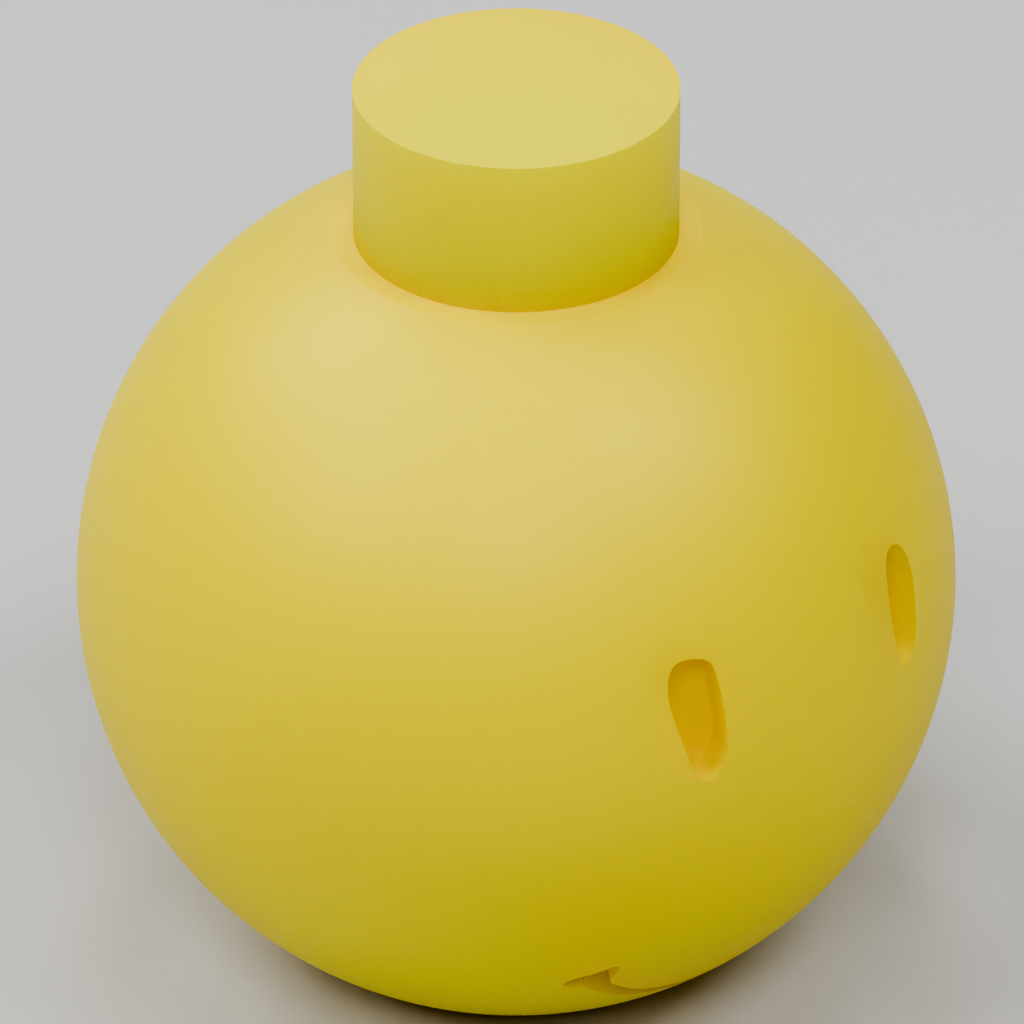
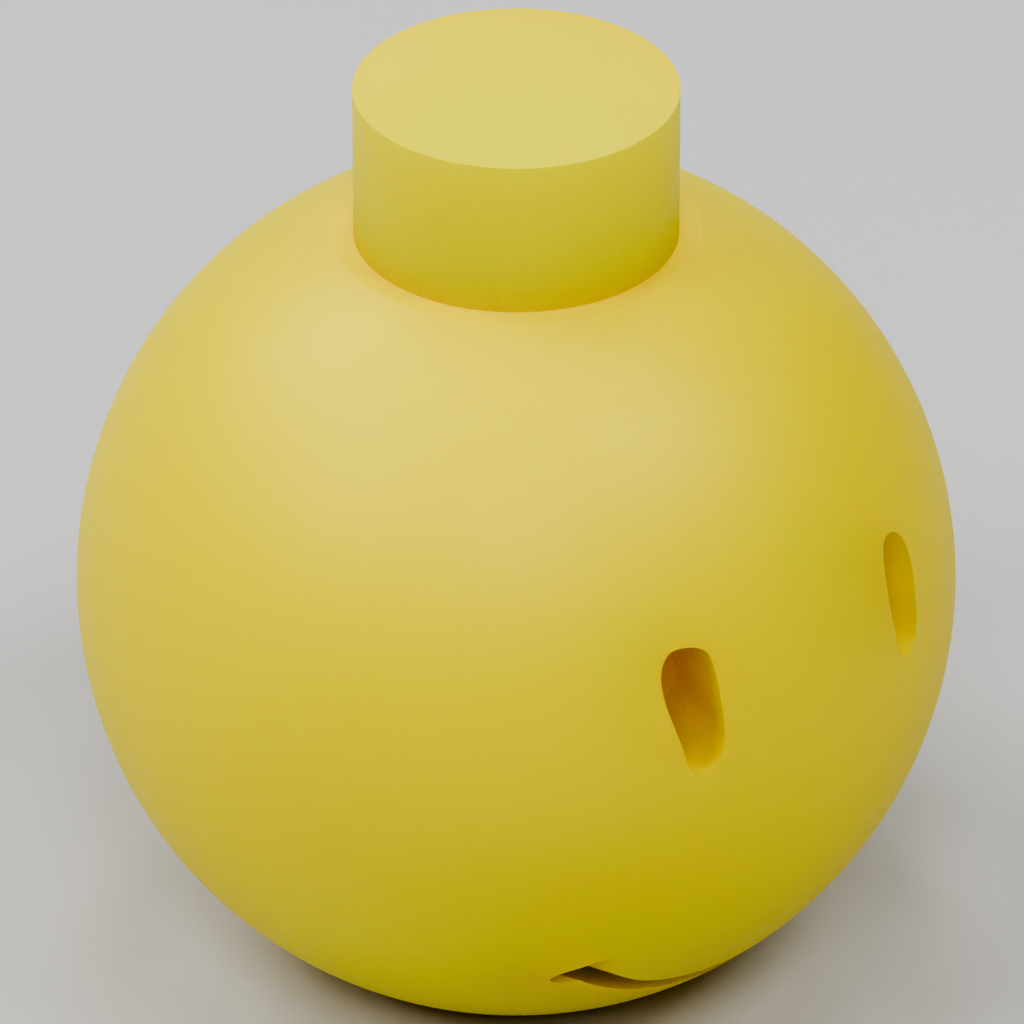
glooby and sleepy

Changed region(s): [[0.625, 0.625, 0.7188, 0.75], [0.5312, 0.9375, 0.6875, 0.9688], [0.8438, 0.5, 0.875, 0.5625]]

diff --git a/content/pieces/Pony Hat Sleepy.html b/content/pieces/Pony Hat Sleepy.html
@@ -1,0 +1,10 @@
++++
+title = "Pony Hat Sleepy"   
+draft = false              
+tags = ["Accessory", "Out Peg"]                 
+categories = ["Piece"]            
+pageThumbnailFile = "sleepy.png"     
+startDate = "2025-06-10"           
+endDate = ""
+contributors = ["The 64th Gamer"]
++++
